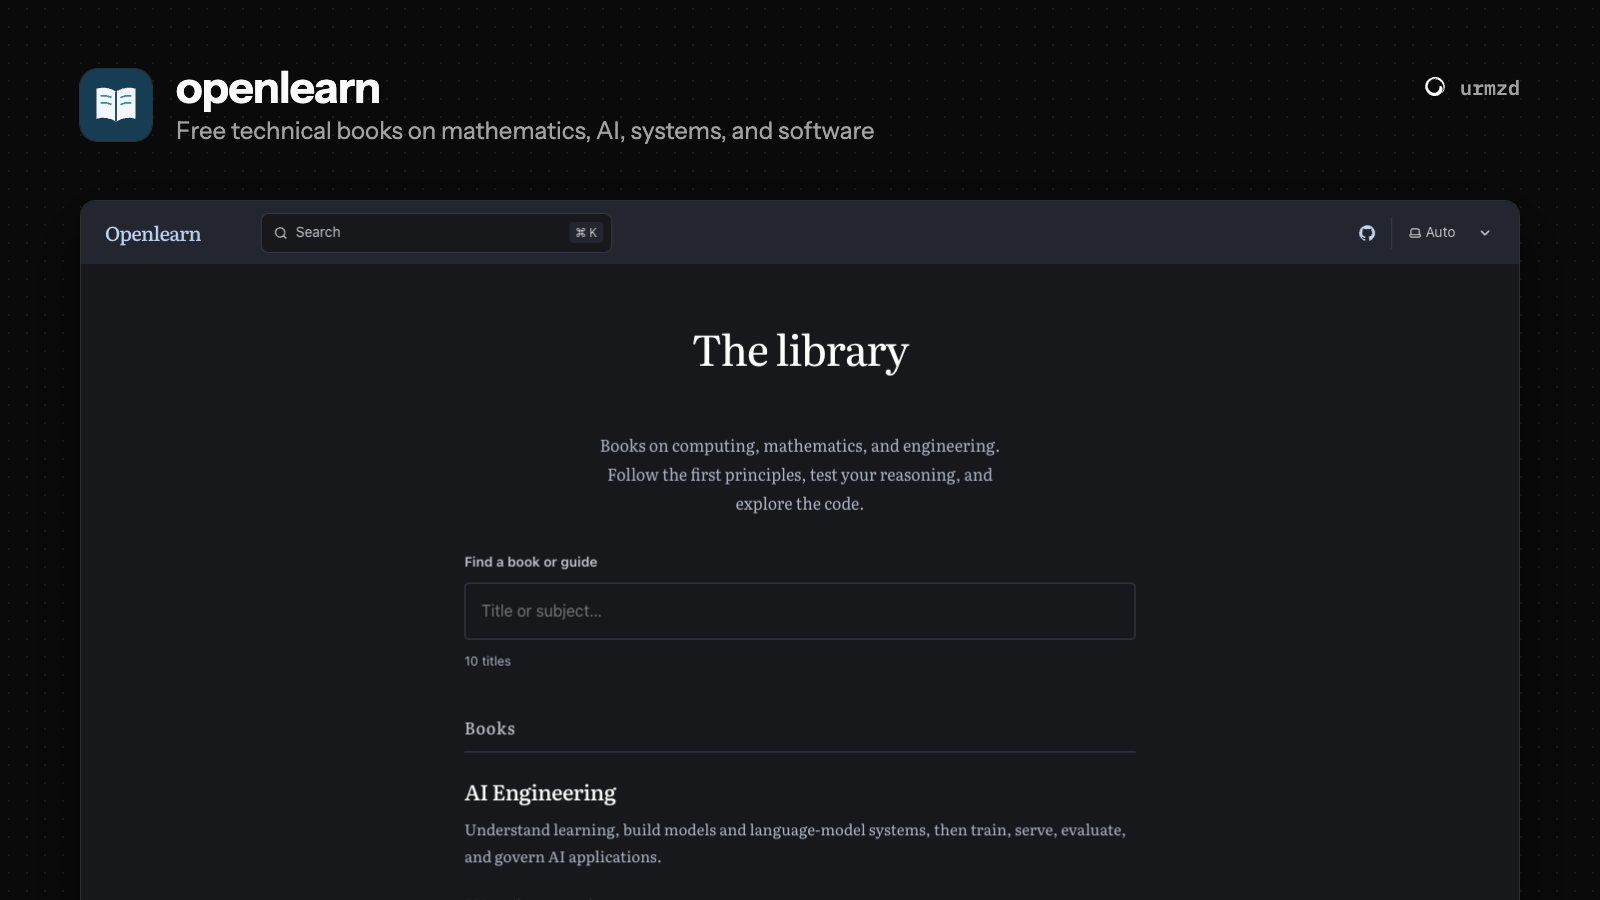
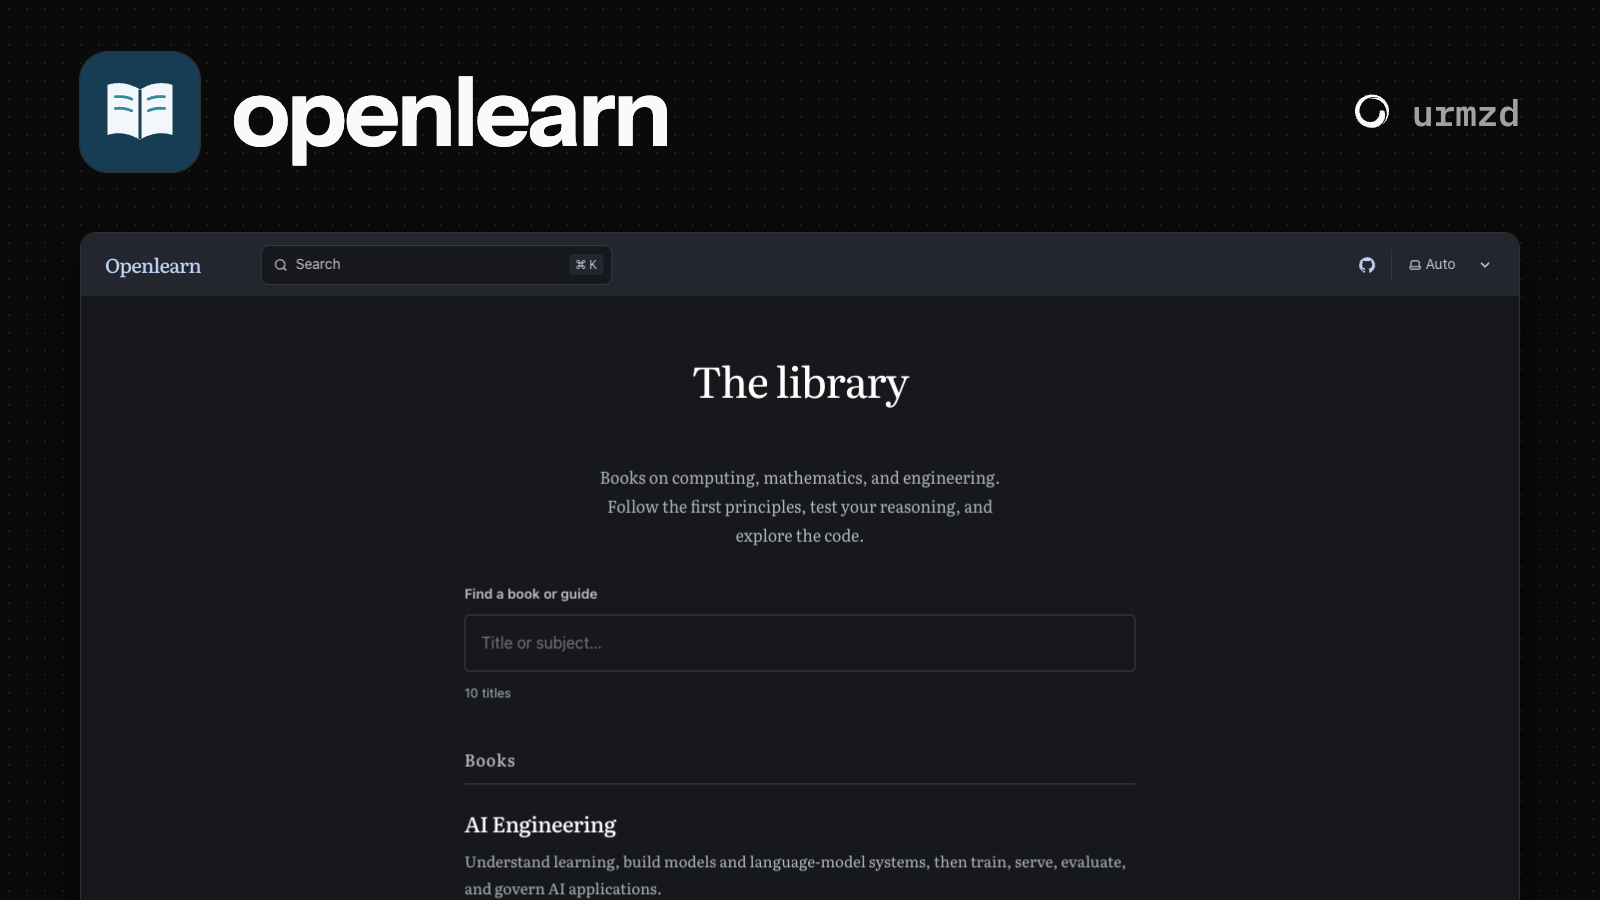
docs(showcase): legible hero and dark-mode card image (#66)
Regenerate showcase/hero-{light,dark}.png with a larger icon and name
and no tagline. SHOWCASE.md now sets the card description and
image_dark, so urmzd.com shows the dark hero in dark mode.

diff --git a/SHOWCASE.md b/SHOWCASE.md
@@ -1,3 +1,5 @@
 ---
+description: "Free technical books on mathematics, AI, systems, and software"
 image: showcase/hero-light.png
+image_dark: showcase/hero-dark.png
 ---
